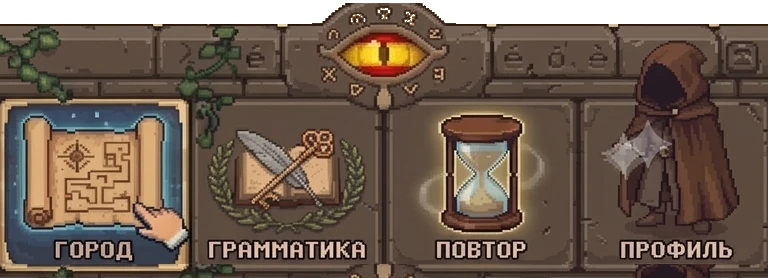
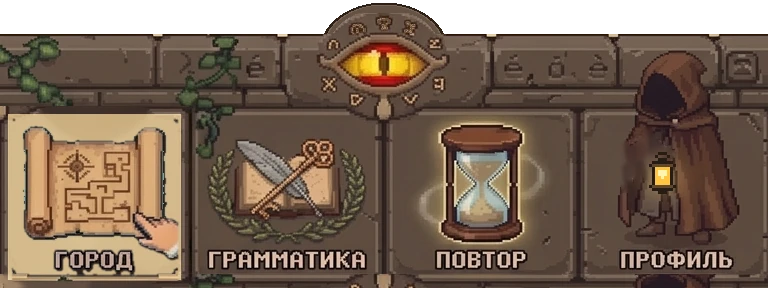
Круглый медальон, бежевая подсветка раздела, фонарь и путник на карте (1.12.1)
Claude-Session: https://claude.ai/code/session_012FoTdB5qAwJN693kz9isgV

diff --git a/src/components/Hero.tsx b/src/components/Hero.tsx
@@ -1,30 +1,31 @@
-// Пиксельный герой 12×16: зелёная шапка и туника, как у героя старых приключенческих игр.
+// Путник из нижнего меню в миниатюре 12×16: капюшон, тёмное лицо, коричневый плащ и фонарь.
 // Два кадра ходьбы отличаются только ногами; кадры переключаются через opacity.
 const BODY = [
   '....KKKK....',
-  '...KGGGGK...',
-  '..KGGGGGGKK.',
-  '.KGGGGGGGGGK',
-  '.KHSSSSSSHK.',
-  '.KSSKSSKSSK.',
-  '..KSSSSSSK..',
-  '...KKSSKK...',
-  '..KGGGGGGK..',
-  '.KSGGBBGGSK.',
-  '.KSGGGGGGSK.',
-  '..KGGGGGGK..',
-  '..KgGKKGgK..',
+  '...KCCCCK...',
+  '..KCCCCCCK..',
+  '..KCFFFFCK..',
+  '..KCFFFFCK..',
+  '..KCcFFcCK..',
+  '.KCCCccCCCK.',
+  '.KCcCCCCcCK.',
+  'KCCcCCCCcCKK',
+  'KCCcCCCCcCKY',
+  'KCCcCCCCcCKY',
+  '.KCcCCCCcCK.',
+  '.KCcCCCCcCK.',
+  '.KCCCCCCCCK.',
 ];
-const LEGS_A = ['..KBBK.KBBK.', '..KBBK.KBBK.', '...KK...KK..'];
-const LEGS_B = ['...KBBKKBBK.', '...KBBK.KK..', '....KK......'];
+const LEGS_A = ['..KBK..KBK..', '..KK....KK..'];
+const LEGS_B = ['...KBKKBK...', '...KK..KK...'];
 
 const COLORS: Record<string, string> = {
-  K: '#1a120a',
-  G: '#3f9a2f',
-  g: '#2a6420',
-  S: '#f2c28a',
-  H: '#d49a2a',
-  B: '#6b4423',
+  K: '#1f140c',
+  C: '#7a4a26',
+  c: '#5a3418',
+  F: '#1a120c',
+  B: '#3a2616',
+  Y: '#ffcc4a',
 };
 
 function cells(rows: string[], y0: number) {

diff --git a/src/content/changelog.ts b/src/content/changelog.ts
@@ -7,6 +7,15 @@ export interface Release {
 // Новые версии сверху. Версия первой записи должна совпадать с package.json (проверяется тестом).
 export const CHANGELOG: Release[] = [
   {
+    version: '1.12.1',
+    date: '2026-09-25',
+    notes: [
+      'Медальон с глазом над меню стал круглым сверху.',
+      'Выбранный раздел подсвечивается бежевым фоном вместо синего.',
+      'У путника в меню фонарь в руке, а по карте города теперь ходит маленький путник.',
+    ],
+  },
+  {
     version: '1.12.0',
     date: '2026-09-25',
     notes: ['Нижнее меню по новому макету: каменная панель с медальоном-глазом, свиток-карта, книга с пером и ключом, песочные часы, путник в плаще.'],

diff --git a/src/components/NavBar.tsx b/src/components/NavBar.tsx
@@ -4,11 +4,11 @@ import nav1 from '../assets/nav/nav-1.webp';
 import nav2 from '../assets/nav/nav-2.webp';
 import nav3 from '../assets/nav/nav-3.webp';
 
-// Меню — картинка по макету (768×278) в четырёх вариантах: в каждом подсвечен свой раздел.
+// Меню — картинка по макету (768×288, сверху дорисован купол медальона) в четырёх вариантах: в каждом подсвечен свой раздел.
 const W = 768;
-const H = 278;
+const H = 288;
 /** Верх ячеек на картинке; выше — полоса с рунами и медальоном. */
-const TILE_TOP = 96;
+const TILE_TOP = 106;
 const TABS = [
   { to: '/', label: 'Город', x0: 0, x1: 189 },
   { to: '/grammar', label: 'Грамматика', x0: 191, x1: 383 },

diff --git a/docs/STAGES.md b/docs/STAGES.md
@@ -285,3 +285,12 @@
 - Удалены пиксельные иконки и каменная панель версии 1.11.0.
 
 Проверено в браузере: все четыре раздела переключаются и подсвечиваются, горизонтальной прокрутки нет, прошли сценарии города, урока с вводом кнопками, офлайна и блица.
+
+## Версия 1.12.1. Правки меню и новый герой
+
+- Верх медальона в макете закрывала рамка карты, поэтому он был плоским. Купол дорисован по эллипсу, продолжающему боковые края (картинка меню стала 768×288), с тёмной обводкой и светлой фаской, как у остального медальона.
+- Активный раздел: вместо синей подложки с золотой рамкой — бежевая. Это та же каменная подложка, внутри рамки перекрашенная в пергамент с сохранением фактуры; рамка остаётся каменной. Сияние песочных часов вычищено из подложки, чтобы не просвечивало кольцом.
+- Искры у руки путника стёрты, вместо них пиксельный фонарь со свечением. Фигура путника для активного варианта отделяется от камня заливкой от краёв ячейки: так сохраняются ноги и серая одежда, которые по цвету близки к камню.
+- Герой на карте города — путник в миниатюре 12×16: капюшон, тёмное лицо, коричневый плащ, огонёк фонаря; два кадра шага.
+
+Проверено в браузере: все разделы переключаются, прогулка героя по карте, сценарии города, урока с вводом кнопками и офлайна.
